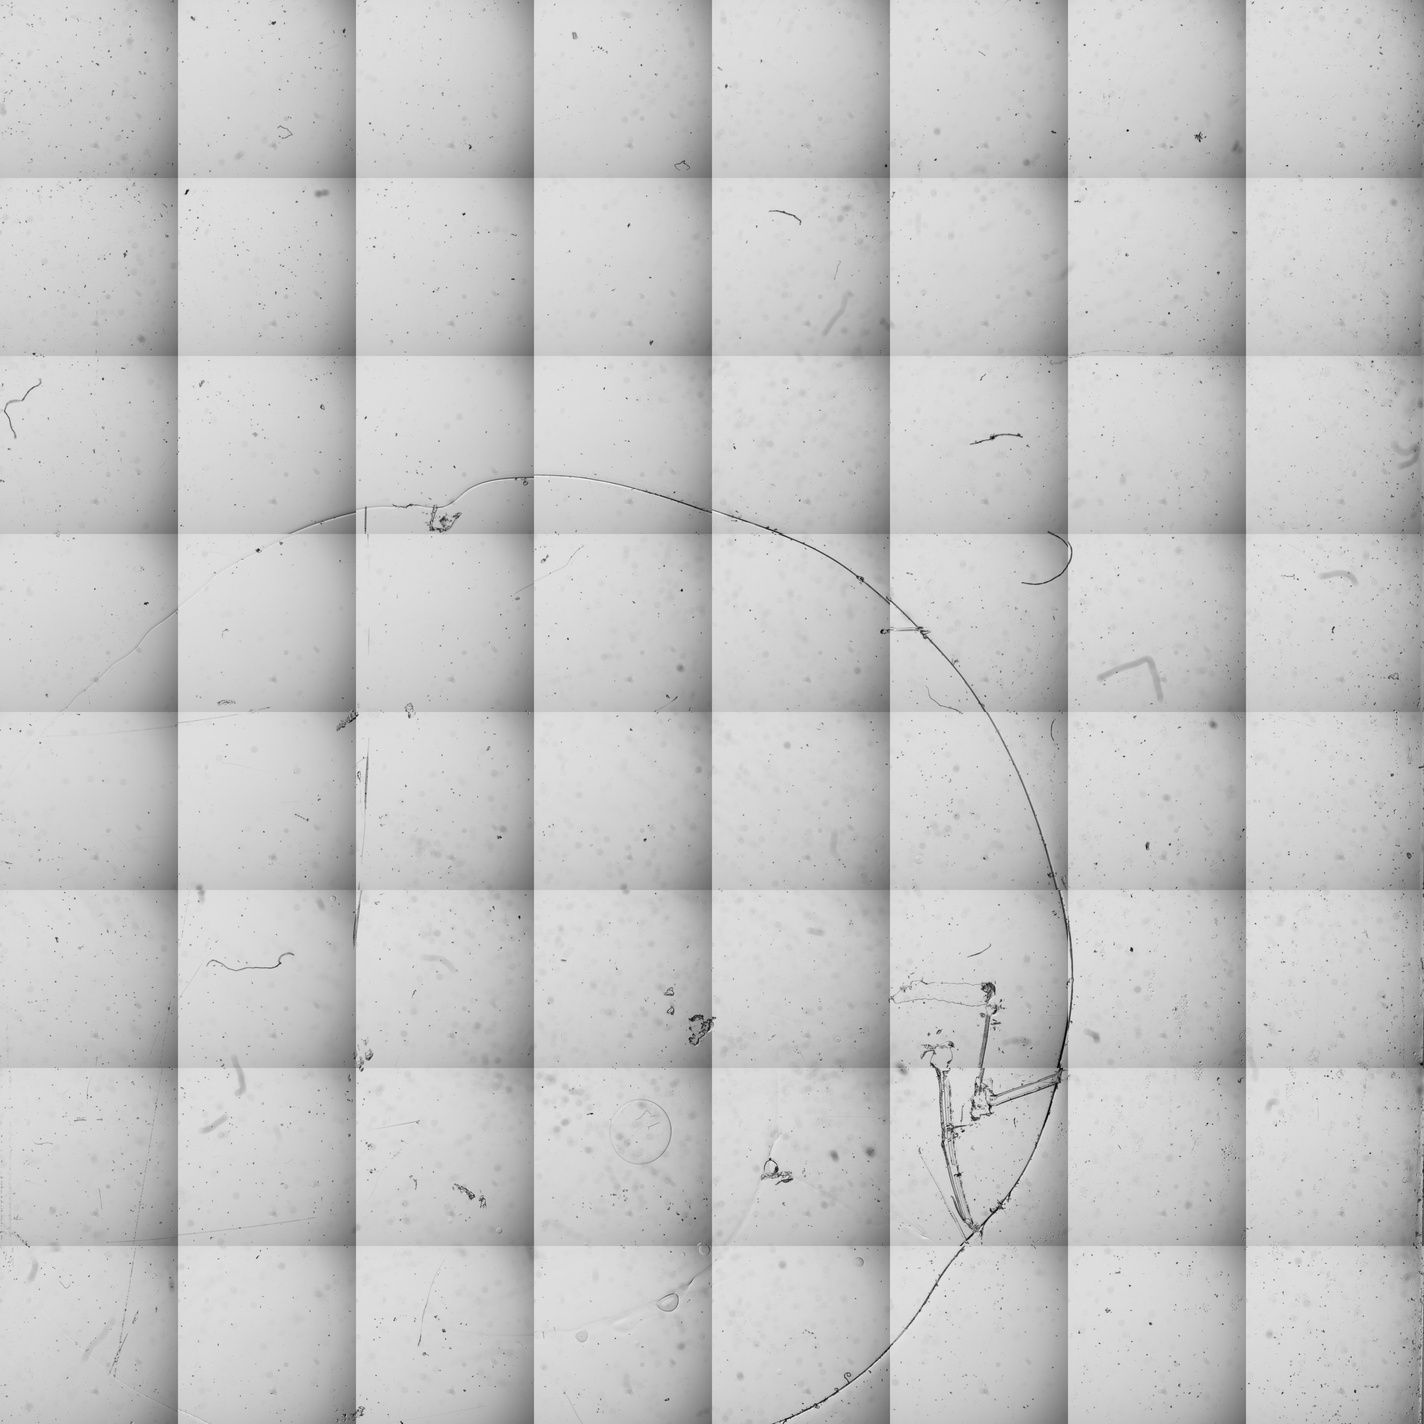
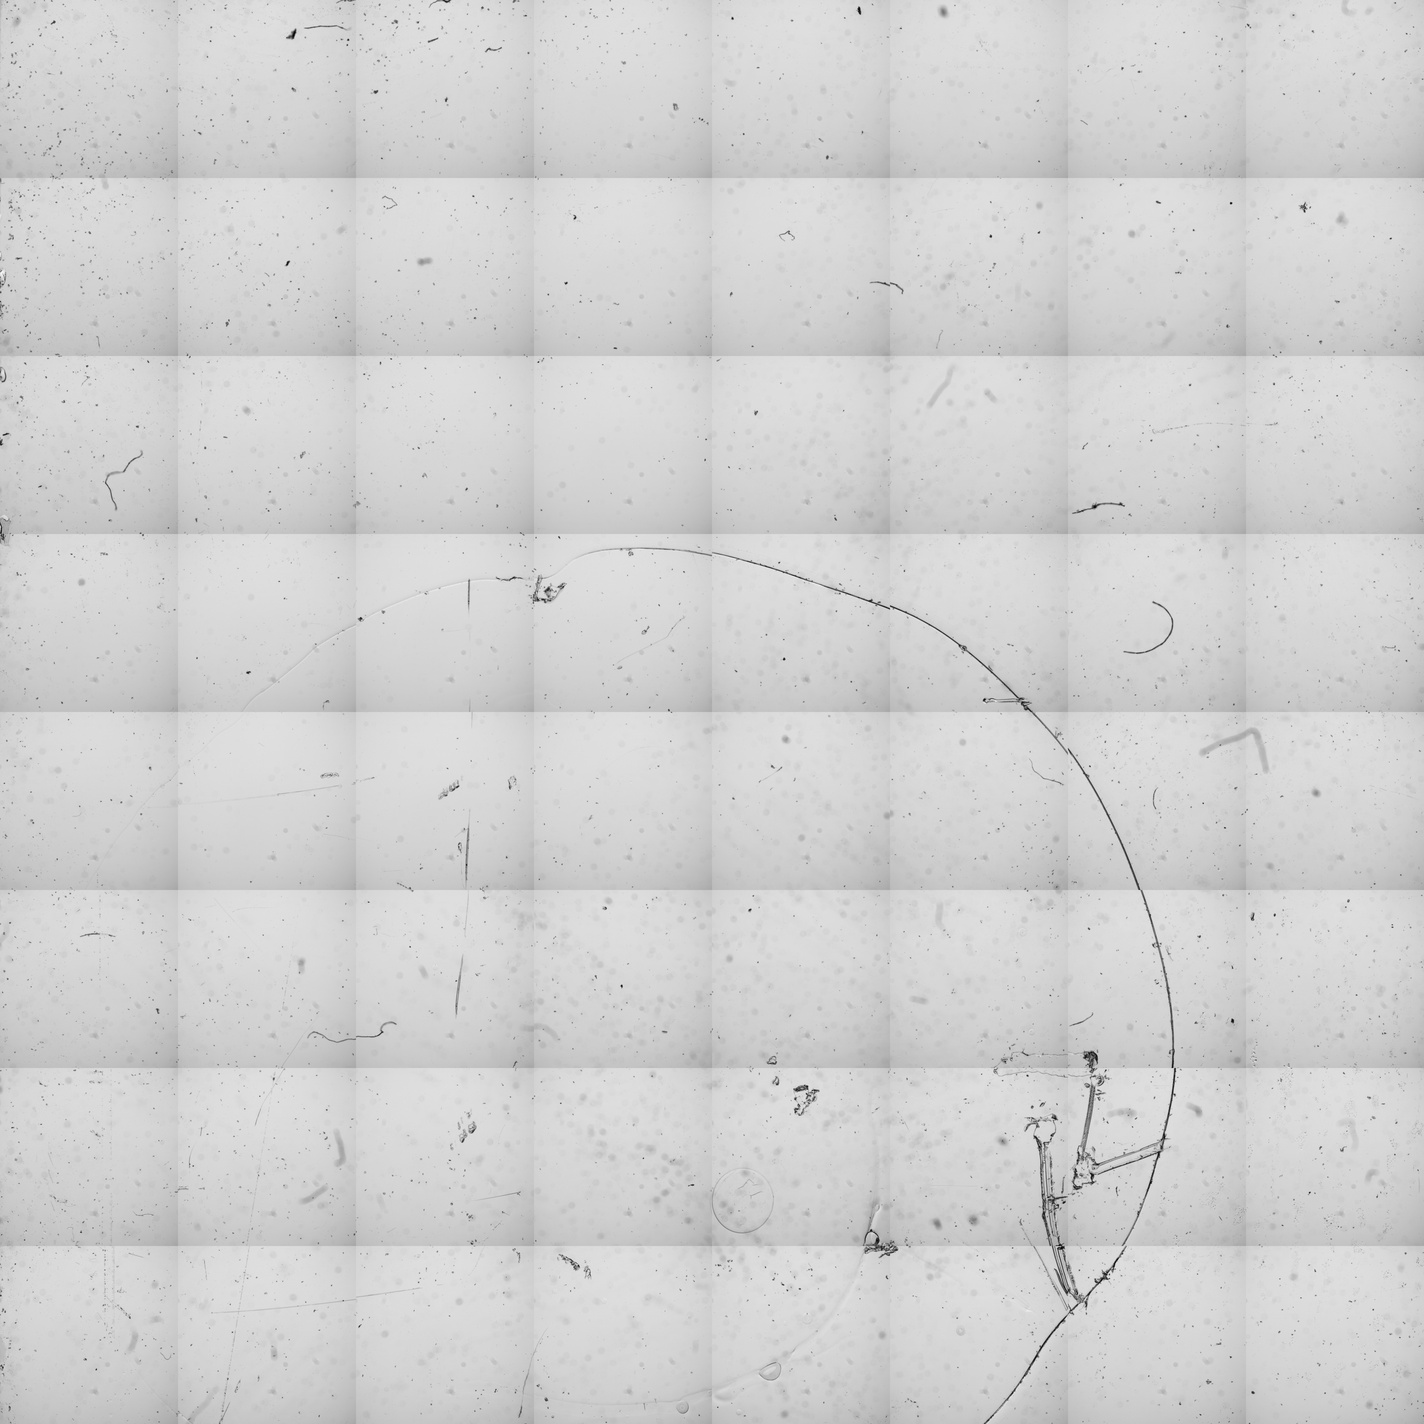
v28.2 hist window : fix all lag and appear at the good time

diff --git a/src/interface/WormAnalysisApp.py b/src/interface/WormAnalysisApp.py
@@ -87,7 +87,7 @@ class WormAnalysisApp:
         self.hist_ax = None
         self.hist_canvas = None
         self.last_hist_update_time = 0.0
-        self.hist_update_interval = 0.5  # seconds: ~2Hz histogram updates
+        self.hist_update_interval = 1  # seconds: 1Hz histogram updates
         self._contrast_slider_active = False
         self._sensor_min_possible = 0
         self._sensor_max_possible = 65535
@@ -2352,7 +2352,7 @@ class WormAnalysisApp:
                 image_data = self.CORE.getImage()
             except Exception as e:
                 # log, but keep running (don't crash the app)
-                if self.context_error != "Update live image failed":
+                if self.context_error != "Update live image failed (camera)":
                     self.context_error = log_error(e, "Update live image failed (camera)")
                 image_data = None
 
@@ -2596,48 +2596,44 @@ class WormAnalysisApp:
         We only expand range when user is NOT interacting with sliders.
         expand_ratio adds a little padding to avoid frequent small changes.
         """
-        try:
-            if getattr(self, "_contrast_slider_active", False):
-                return  # user is interacting, do not auto-change
+        if getattr(self, "_contrast_slider_active", False):
+            return  # user is interacting, do not auto-change
 
-            if not getattr(self, "vmin_slider", None) or not getattr(self, "vmax_slider", None):
-                return
+        if not getattr(self, "vmin_slider", None) or not getattr(self, "vmax_slider", None):
+            return
 
-            # Convert to ints for slider ranges
-            img_min_i = int(np.floor(float(img_min)))
-            img_max_i = int(np.ceil(float(img_max)))
-            if img_max_i == img_min_i:
-                img_max_i = img_min_i + 1
+        # Convert to ints for slider ranges
+        img_min_i = int(np.floor(float(img_min)))
+        img_max_i = int(np.ceil(float(img_max)))
+        if img_max_i == img_min_i:
+            img_max_i = img_min_i + 1
 
-            # add padding
-            pad = max(1, int((img_max_i - img_min_i) * expand_ratio))
-            new_from = max(int(self._sensor_min_possible), img_min_i - pad)
-            new_to   = min(int(self._sensor_max_possible), img_max_i + pad)
+        # add padding
+        pad = max(1, int((img_max_i - img_min_i) * expand_ratio))
+        new_from = max(int(self._sensor_min_possible), img_min_i - pad)
+        new_to   = min(int(self._sensor_max_possible), img_max_i + pad)
 
-            # read current slider config (they share the same from/to in our UI)
-            cur_from = int(float(self.vmin_slider.cget("from")))
-            cur_to   = int(float(self.vmin_slider.cget("to")))
+        # read current slider config (they share the same from/to in our UI)
+        cur_from = int(float(self.vmin_slider.cget("from")))
+        cur_to   = int(float(self.vmin_slider.cget("to")))
 
-            # Only update if image min/max outside current bounds (avoid jitter)
-            if img_min_i < cur_from or img_max_i > cur_to:
-                # keep user values but clamp into new range
-                vmin_val = int(float(self.vmin_var.get()))
-                vmax_val = int(float(self.vmax_var.get()))
+        # Only update if image min/max outside current bounds (avoid jitter)
+        if img_min_i < cur_from or img_max_i > cur_to:
+            # keep user values but clamp into new range
+            vmin_val = int(float(self.vmin_var.get()))
+            vmax_val = int(float(self.vmax_var.get()))
 
-                # clamp
-                vmin_val = max(new_from, min(vmin_val, new_to - 1))
-                vmax_val = max(new_from + 1, min(vmax_val, new_to))
+            # clamp
+            vmin_val = max(new_from, min(vmin_val, new_to - 1))
+            vmax_val = max(new_from + 1, min(vmax_val, new_to))
 
-                # apply new range to both sliders (same from/to)
-                self.vmin_slider.config(from_=new_from, to=new_to)
-                self.vmax_slider.config(from_=new_from, to=new_to)
+            # apply new range to both sliders (same from/to)
+            self.vmin_slider.config(from_=new_from, to=new_to)
+            self.vmax_slider.config(from_=new_from, to=new_to)
 
-                # update variables (no sudden jump if within range; clamped otherwise)
-                self.vmin_var.set(vmin_val)
-                self.vmax_var.set(vmax_val)
-        except Exception as e:
-            # avoid breaking live loop if something goes wrong
-            self.context_error = log_error(e, "_maybe_update_slider_range failed")
+            # update variables (no sudden jump if within range; clamped otherwise)
+            self.vmin_var.set(vmin_val)
+            self.vmax_var.set(vmax_val)
 
     def update_image_and_histogram(self, img_array=None, live_mode=False):
         """
@@ -2700,7 +2696,8 @@ class WormAnalysisApp:
                 label_width = self.live_image_label.winfo_width()
                 label_height = self.live_image_label.winfo_height()
                 if label_width > 0 and label_height > 0:
-                    image = image.resize((label_width, label_height), Image.Resampling.LANCZOS)
+                    resample_method = Image.Resampling.BILINEAR if live_mode else Image.Resampling.LANCZOS
+                    image = image.resize((label_width, label_height), resample_method)
             except Exception:
                 pass
 
@@ -2731,7 +2728,8 @@ class WormAnalysisApp:
                     self.hist_canvas.draw_idle()
                 self.last_hist_update_time = now
         except Exception as e:
-            self.context_error = log_error(e, f"Update image histogram failed")
+            if self.context_error != "Update image histogram failed":
+                self.context_error = log_error(e, f"Update image histogram failed")
         finally:
             self._image_update_lock = False 
 
